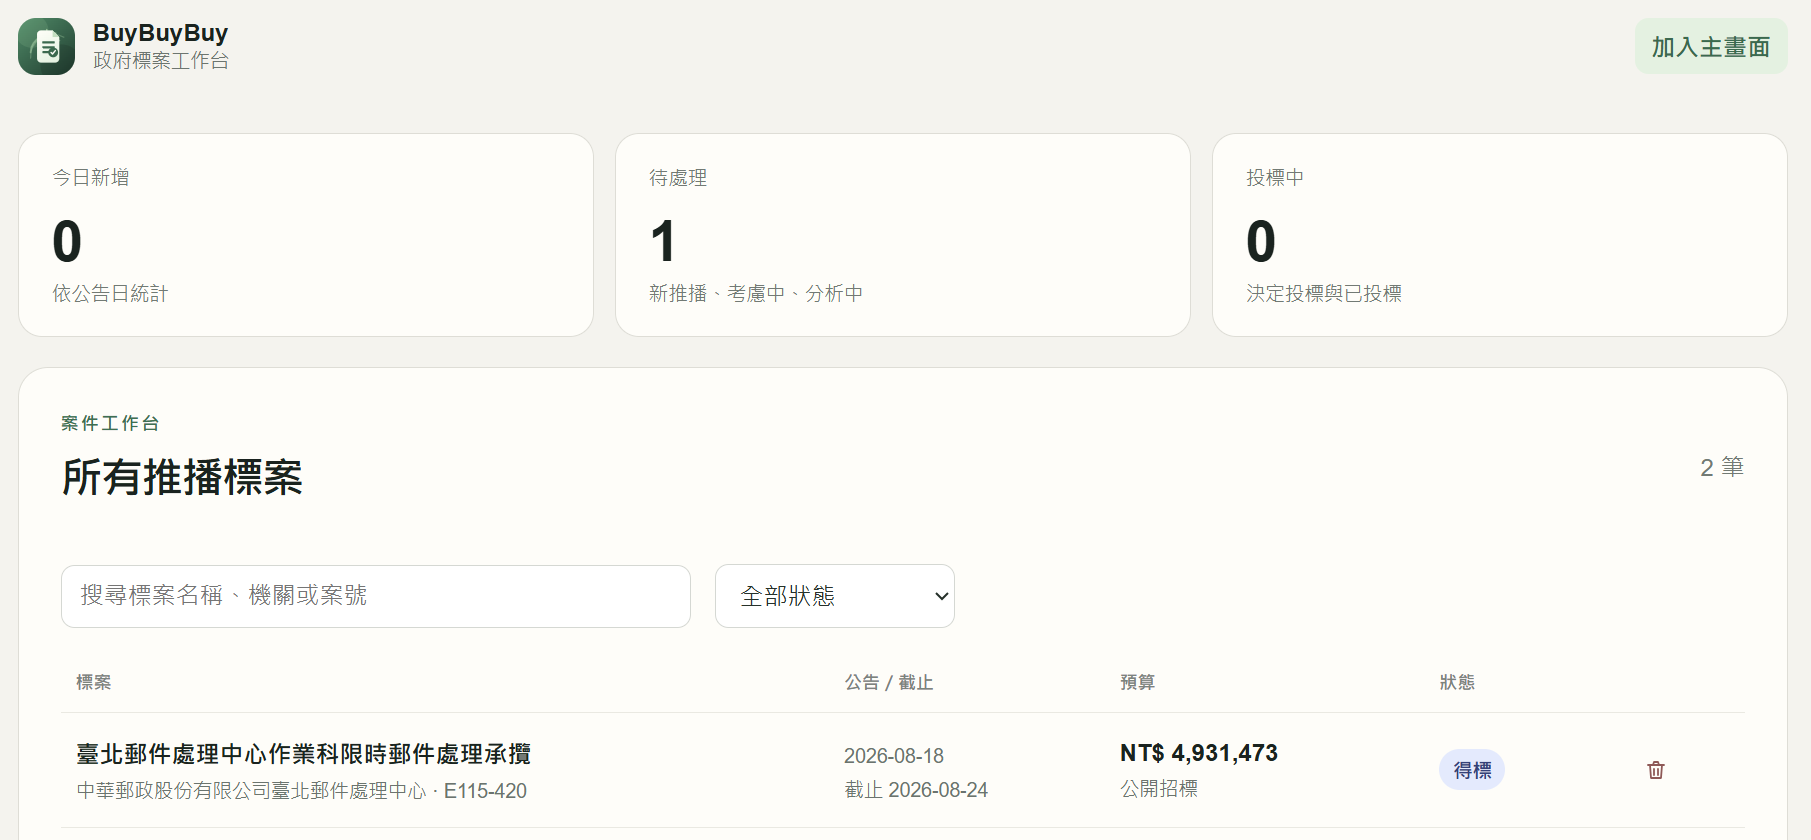
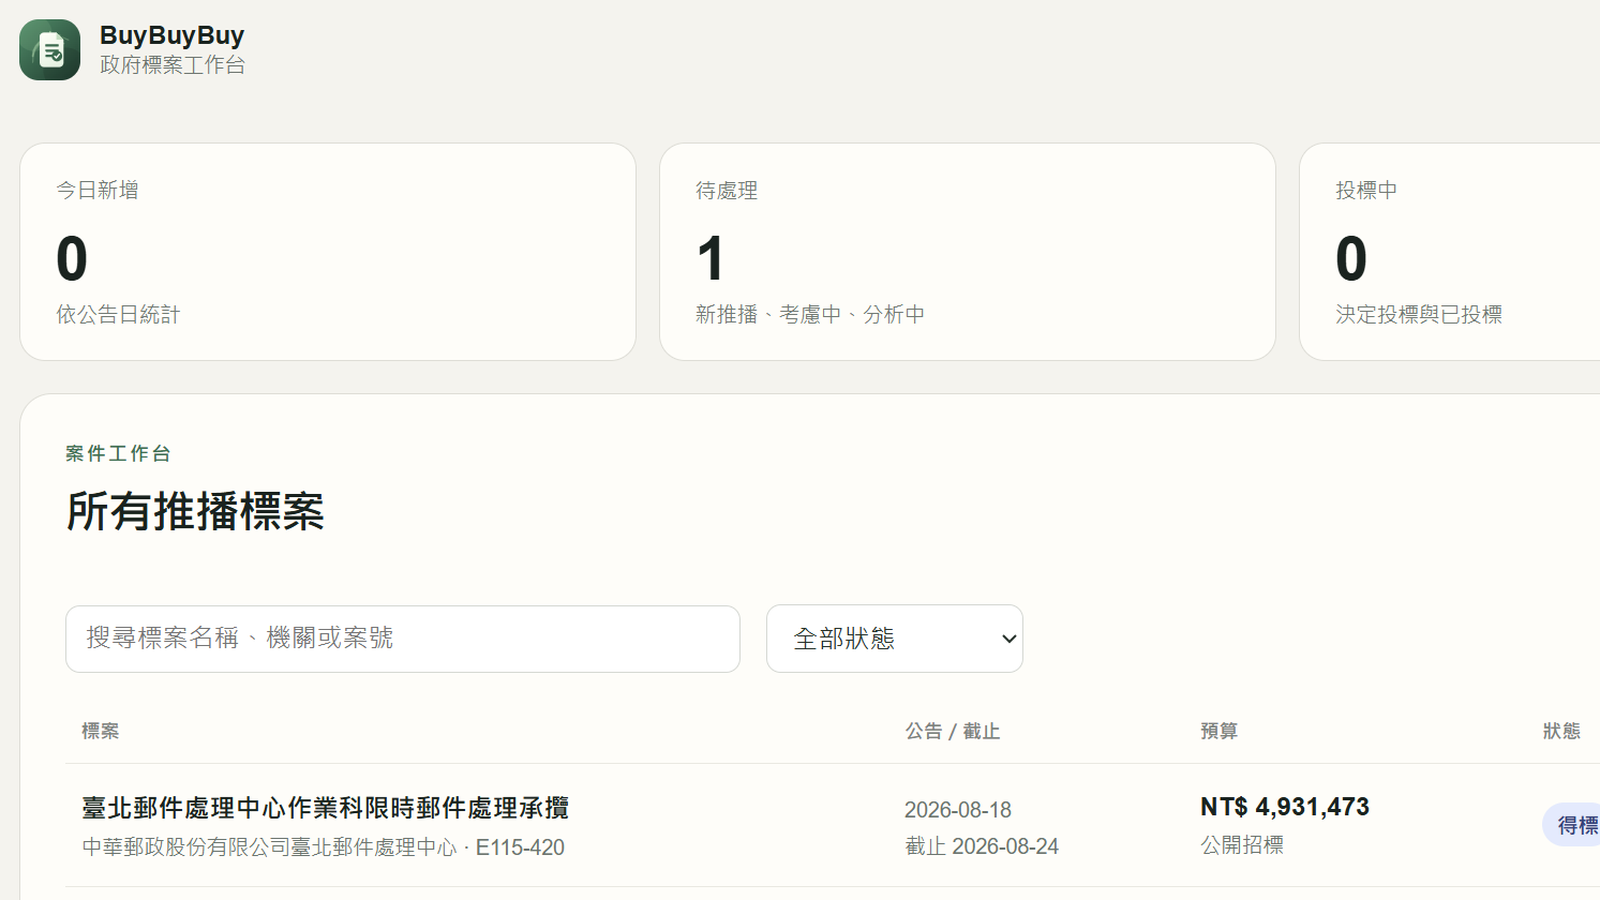
fix(portfolio): include new works in cover editor

diff --git a/local-tools/cover-editor.html b/local-tools/cover-editor.html
@@ -1,0 +1,27 @@
+<!doctype html>
+<html lang="zh-Hant"><meta charset="utf-8"><meta name="viewport" content="width=device-width,initial-scale=1"><title>Portfolio 封面裁切器</title>
+<style>
+:root{font-family:system-ui,sans-serif;color:#f8fafc;background:#111827}*{box-sizing:border-box}body{margin:0}main{width:min(1180px,calc(100% - 32px));margin:auto;padding:36px 0}.layout{display:grid;grid-template-columns:280px 1fr;gap:20px}.panel{background:#182235;border:1px solid #334155;border-radius:18px;padding:18px}h1{margin:0}.lead,.note{color:#cbd5e1;line-height:1.6}.note{font-size:13px}label{display:block;font-size:13px;font-weight:700;color:#cbd5e1;margin:0 0 8px}select,button{width:100%;border-radius:10px;font:inherit}select{padding:11px;border:1px solid #475569;background:#0f172a;color:#fff;margin-bottom:16px}button{border:0;padding:12px;font-weight:800;cursor:pointer}.mode{display:grid;grid-template-columns:1fr 1fr;gap:8px}.mode button{background:#273449;color:#cbd5e1;font-size:13px}.mode button.active{background:#f97316;color:#fff}#save{background:#22c55e;color:#06230f;margin-top:16px}#save:disabled{opacity:.5}canvas{display:block;width:100%;max-height:640px;border-radius:14px;background:#0b1120;touch-action:none;cursor:crosshair}.preview-wrap{margin-top:18px;display:flex;gap:16px;align-items:flex-start}.preview-box{width:180px}.preview{background:#0b1120;border:1px solid #475569;border-radius:10px;overflow:hidden}.preview.square{aspect-ratio:1}.preview.wide{aspect-ratio:16/9}.preview.portrait{aspect-ratio:9/16;width:110px}.preview img{width:100%;height:100%;display:block;object-fit:cover}#status{min-height:24px;margin-top:14px;color:#a7f3d0;font-size:13px}#status.error{color:#fca5a5}@media(max-width:800px){main{width:min(100% - 20px,700px);padding-top:20px}.layout{grid-template-columns:1fr}}
+</style>
+<main><h1>Portfolio 裁切器</h1><p class="lead">本機使用。封面可裁成 1:1 或 16:9；手機 App 畫面請選「操作畫面 9:16」，會自動加入作品詳情頁圖集。</p><div class="layout"><aside class="panel"><label>作品</label><select id="work"></select><label>來源圖片</label><select id="source"></select><label>新增來源圖片</label><input id="upload" type="file" accept="image/png,image/jpeg,image/webp"><p class="note">新作品即使尚未有封面也會列在這裡；先匯入 PNG、JPG 或 WebP 圖片，再進行裁切。</p><label>輸出位置</label><div class="mode"><button data-mode="card" class="active">首頁卡片<br>1:1</button><button data-mode="detail">作品詳情<br>16:9</button><button data-mode="portrait">操作畫面<br>9:16</button></div><p class="note">每次儲存會備份舊檔並重建作品集。直式操作畫面存進圖集，不影響封面。</p><button id="save">儲存裁切並重建</button><div id="status"></div></aside><section class="panel"><canvas id="canvas"></canvas><div class="preview-wrap"><div class="preview-box"><label>輸出預覽</label><div id="preview" class="preview square"><img></div></div><p class="note">拖曳裁切框移動；拖曳四角調整大小。切換比例或圖片時會重新置中。</p></div></section></div></main>
+<script>
+const $=s=>document.querySelector(s),canvas=$('#canvas'),ctx=canvas.getContext('2d'),workSelect=$('#work'),sourceSelect=$('#source'),upload=$('#upload'),preview=$('#preview'),previewImg=$('#preview img'),save=$('#save'),status=$('#status');let works=[],work,image=new Image(),mode='card',crop,display,action;
+const ratio=()=>mode==='card'?1:mode==='detail'?16/9:9/16;
+const outputSize=()=>mode==='card'?[400,400]:mode==='detail'?[640,360]:[270,480];
+function msg(text,error=false){status.textContent=text;status.className=error?'error':''}
+function fit(w,h,r){const height=Math.min(h,w/r),width=height*r;return{x:(w-width)/2,y:(h-height)/2,width,height}}
+function reset(){crop=fit(image.naturalWidth,image.naturalHeight,ratio());draw()}
+function load(){if(!sourceSelect.value){canvas.width=0;canvas.height=0;previewImg.removeAttribute('src');return}image=new Image();image.onload=reset;image.src='/'+encodeURI(sourceSelect.value)+'?t='+Date.now()}
+function draw(){if(!image.naturalWidth||!crop)return;const scale=Math.min(900/image.naturalWidth,620/image.naturalHeight,1);canvas.width=Math.round(image.naturalWidth*scale);canvas.height=Math.round(image.naturalHeight*scale);display={scale};ctx.drawImage(image,0,0,canvas.width,canvas.height);const r={x:crop.x*scale,y:crop.y*scale,width:crop.width*scale,height:crop.height*scale};ctx.fillStyle='rgba(0,0,0,.58)';ctx.beginPath();ctx.rect(0,0,canvas.width,canvas.height);ctx.rect(r.x,r.y,r.width,r.height);ctx.fill('evenodd');ctx.strokeStyle='#fff';ctx.lineWidth=2;ctx.strokeRect(r.x,r.y,r.width,r.height);ctx.fillStyle='#f97316';for(const[x,y]of[[r.x,r.y],[r.x+r.width,r.y],[r.x,r.y+r.height],[r.x+r.width,r.y+r.height]])ctx.fillRect(x-7,y-7,14,14);const out=document.createElement('canvas'),[ow,oh]=outputSize();out.width=ow;out.height=oh;out.getContext('2d').drawImage(image,crop.x,crop.y,crop.width,crop.height,0,0,ow,oh);previewImg.src=out.toDataURL();preview.className='preview '+(mode==='card'?'square':mode==='detail'?'wide':'portrait')}
+function point(e){const r=canvas.getBoundingClientRect();return{x:(e.clientX-r.left)*canvas.width/r.width,y:(e.clientY-r.top)*canvas.height/r.height}}
+function hit(p){const r={x:crop.x*display.scale,y:crop.y*display.scale,width:crop.width*display.scale,height:crop.height*display.scale},d=18;for(const[n,x,y]of[['nw',r.x,r.y],['ne',r.x+r.width,r.y],['sw',r.x,r.y+r.height],['se',r.x+r.width,r.y+r.height]])if(Math.hypot(p.x-x,p.y-y)<d)return n;return p.x>=r.x&&p.x<=r.x+r.width&&p.y>=r.y&&p.y<=r.y+r.height?'move':'new'}
+canvas.onpointerdown=e=>{const p=point(e);action={type:hit(p),start:p,original:{...crop}};canvas.setPointerCapture(e.pointerId)};
+canvas.onpointermove=e=>{if(!action)return;const p=point(e),s=display.scale,dx=(p.x-action.start.x)/s,dy=(p.y-action.start.y)/s,o=action.original,r=ratio();if(action.type==='move'){crop.x=Math.max(0,Math.min(image.naturalWidth-o.width,o.x+dx));crop.y=Math.max(0,Math.min(image.naturalHeight-o.height,o.y+dy))}else{let ax=o.x,ay=o.y,sx=1,sy=1;if(action.type==='nw'){ax=o.x+o.width;ay=o.y+o.height;sx=-1;sy=-1}if(action.type==='ne'){ay=o.y+o.height;sy=-1}if(action.type==='sw'){ax=o.x+o.width;sx=-1}let width=Math.max(80,Math.abs(p.x/s-ax)),height=width/r;width=Math.min(width,sx>0?image.naturalWidth-ax:ax);height=Math.min(height,sy>0?image.naturalHeight-ay:ay);width=Math.min(width,height*r);height=width/r;crop={x:sx>0?ax:ax-width,y:sy>0?ay:ay-height,width,height}}draw()};canvas.onpointerup=()=>action=null;
+function chooseWork(){work=works.find(w=>w.slug===workSelect.value);const hasImages=work.images.length>0;sourceSelect.innerHTML=hasImages?work.images.map(p=>`<option value="${p}">${p.split('/').pop()}</option>`).join(''):'<option value="">請先匯入來源圖片</option>';sourceSelect.disabled=!hasImages;save.disabled=!hasImages;load()}
+async function refreshWorks(selectedSlug){const r=await fetch('/api/works');if(!r.ok)throw Error('無法讀取作品清單');works=await r.json();workSelect.innerHTML=works.map(w=>`<option value="${w.slug}">${w.title}${w.images.length?'':'（尚未有圖片）'}</option>`).join('');workSelect.value=selectedSlug||works[0]?.slug||'';chooseWork()}
+workSelect.onchange=chooseWork;sourceSelect.onchange=load;
+upload.onchange=async()=>{const file=upload.files[0];if(!file)return;if(file.size>15*1024*1024){msg('圖片請小於 15 MB',true);upload.value='';return}msg('匯入圖片中…');try{const data=await file.arrayBuffer(),bytes=new Uint8Array(data);let binary='';for(let i=0;i<bytes.length;i+=0x8000)binary+=String.fromCharCode(...bytes.subarray(i,i+0x8000));const r=await fetch('/api/upload',{method:'POST',headers:{'Content-Type':'application/json'},body:JSON.stringify({slug:work.slug,name:file.name,data:btoa(binary)})}),d=await r.json();if(!r.ok)throw Error(d.error);await refreshWorks(work.slug);sourceSelect.value=d.source;load();msg(`已匯入：${d.source.split('/').pop()}`)}catch(e){msg(e.message,true)}finally{upload.value=''}};
+document.querySelectorAll('[data-mode]').forEach(b=>b.onclick=()=>{mode=b.dataset.mode;document.querySelectorAll('[data-mode]').forEach(x=>x.classList.toggle('active',x===b));reset()});
+save.onclick=async()=>{save.disabled=true;msg('儲存與重建中…');try{const r=await fetch('/api/save',{method:'POST',headers:{'Content-Type':'application/json'},body:JSON.stringify({slug:work.slug,source:sourceSelect.value,mode,crop})}),d=await r.json();if(!r.ok)throw Error(d.error);msg(`${d.message}：${d.target}`);chooseWork()}catch(e){msg(e.message,true)}finally{save.disabled=!sourceSelect.value}};
+refreshWorks().catch(e=>msg(e.message,true));
+</script>

diff --git a/index.html b/index.html
@@ -82,7 +82,7 @@
     <div class="works-grid">
       
 <a class="card-small" href="works/buybuybuy.html" data-cats="生產力工具" data-type="work">
-  <div class="card-small-img" style="background: linear-gradient(rgba(0,0,0,.2), rgba(0,0,0,.48)), url('assets/works/buybuybuy/cover.png') center/cover no-repeat;">
+  <div class="card-small-img" style="background: linear-gradient(rgba(0,0,0,.2), rgba(0,0,0,.48)), url('assets/works/buybuybuy/cover-card.png') center/cover no-repeat;">
     <div class="card-small-img-title">政府標案投標輔助系統</div>
   </div>
   <div class="card-small-num">01 — 作品 · 生產力工具</div>
@@ -100,7 +100,7 @@
 </a>
 
 <a class="card-small" href="works/academic-publication-dashboard.html" data-cats="BI儀表板|學術研究" data-type="work">
-  <div class="card-small-img" style="background: linear-gradient(rgba(0,0,0,.2), rgba(0,0,0,.48)), url('assets/works/academic-publication-dashboard/cover.png') center/cover no-repeat;">
+  <div class="card-small-img" style="background: linear-gradient(rgba(0,0,0,.2), rgba(0,0,0,.48)), url('assets/works/academic-publication-dashboard/cover-card.png') center/cover no-repeat;">
     <div class="card-small-img-title">學術發表儀表板</div>
   </div>
   <div class="card-small-num">03 — 作品 · BI儀表板</div>
@@ -118,7 +118,7 @@
 </a>
 
 <a class="card-small" href="works/2x-kick.html" data-cats="量化投資" data-type="work">
-  <div class="card-small-img" style="background: linear-gradient(rgba(0,0,0,.2), rgba(0,0,0,.48)), url('assets/works/2x-kick/screenshots/cover.png') center/cover no-repeat;">
+  <div class="card-small-img" style="background: linear-gradient(rgba(0,0,0,.2), rgba(0,0,0,.48)), url('assets/works/2x-kick/cover-card.png') center/cover no-repeat;">
     <div class="card-small-img-title">2X Kick 正二倉位策略</div>
   </div>
   <div class="card-small-num">05 — 作品 · 量化投資</div>
@@ -163,7 +163,7 @@
 </a>
 
 <a class="card-small" href="works/manuscript-revision-response.html" data-cats="學術工具|學術研究" data-type="skill">
-  <div class="card-small-img" style="background: linear-gradient(rgba(0,0,0,.2), rgba(0,0,0,.48)), url('assets/works/manuscript-revision-response/screenshots/cover.png') center/cover no-repeat;">
+  <div class="card-small-img" style="background: linear-gradient(rgba(0,0,0,.2), rgba(0,0,0,.48)), url('assets/works/manuscript-revision-response/cover-card.png') center/cover no-repeat;">
     <div class="card-small-img-title">學術修稿與審稿回應系統</div>
   </div>
   <div class="card-small-num">10 — 技能包 · 學術工具</div>
@@ -371,7 +371,7 @@
 
 <a class="card-small" href="works/second-brain-system.html" data-cats="學習工具" data-type="work">
   <div class="card-small-img" style="background: linear-gradient(rgba(0,0,0,.2), rgba(0,0,0,.48)), url('assets/works/second-brain-system/cover.svg') center/cover no-repeat;">
-    <div class="card-small-img-title">四層第二大腦知識系統</div>
+    <div class="card-small-img-title">第二大腦知識系統</div>
   </div>
   <div class="card-small-num">33 — 作品 · 學習工具</div>
   <div class="card-small-summary">把素材、理解、探索與成果分層，讓知識能被保留、驗證與重新使用。</div>
@@ -478,7 +478,7 @@
 </a>
 
 <a class="card-small" href="works/ntuh-appointment-bot.html" data-cats="生活工具" data-type="work">
-  <div class="card-small-img" style="background: linear-gradient(rgba(0,0,0,.2), rgba(0,0,0,.48)), url('assets/works/ntuh-appointment-bot/screenshots/cover.png') center/cover no-repeat;">
+  <div class="card-small-img" style="background: linear-gradient(rgba(0,0,0,.2), rgba(0,0,0,.48)), url('assets/works/ntuh-appointment-bot/cover-card.png') center/cover no-repeat;">
     <div class="card-small-img-title">NTUH 快速掛號工具</div>
   </div>
   <div class="card-small-num">45 — 作品 · 生活工具</div>
@@ -514,7 +514,7 @@
 </a>
 
 <a class="card-small" href="works/wowcow-decision-matrix.html" data-cats="教學遊戲" data-type="work">
-  <div class="card-small-img" style="background: linear-gradient(rgba(0,0,0,.2), rgba(0,0,0,.48)), url('assets/works/wowcow-decision-matrix/screenshots/cover.png') center/cover no-repeat;">
+  <div class="card-small-img" style="background: linear-gradient(rgba(0,0,0,.2), rgba(0,0,0,.48)), url('assets/works/wowcow-decision-matrix/cover.png') center/cover no-repeat;">
     <div class="card-small-img-title">WOWCOW 決策矩陣</div>
   </div>
   <div class="card-small-num">49 — 作品 · 教學遊戲</div>

diff --git a/works/second-brain-system.html b/works/second-brain-system.html
@@ -3,10 +3,10 @@
 <head>
 <meta charset="utf-8">
 <meta name="viewport" content="width=device-width, initial-scale=1, viewport-fit=cover">
-<title>四層第二大腦知識系統｜Allen</title>
+<title>第二大腦知識系統｜Allen</title>
 <meta name="description" content="把素材、理解、探索與成果分層，讓知識能被保留、驗證與重新使用。">
 <link rel="canonical" href="https://mouslun-cpu.github.io/Portfolio/works/second-brain-system.html">
-<meta property="og:title" content="四層第二大腦知識系統｜Allen">
+<meta property="og:title" content="第二大腦知識系統｜Allen">
 <meta property="og:description" content="把素材、理解、探索與成果分層，讓知識能被保留、驗證與重新使用。">
 <meta property="og:type" content="website">
 <meta property="og:url" content="https://mouslun-cpu.github.io/Portfolio/works/second-brain-system.html">
@@ -41,22 +41,22 @@
 
   <div class="work-header">
     <div class="work-breadcrumb">
-      <a href="../index.html">← WORK</a>&nbsp;&nbsp;/&nbsp;&nbsp;33 四層第二大腦知識系統
+      <a href="../index.html">← WORK</a>&nbsp;&nbsp;/&nbsp;&nbsp;33 第二大腦知識系統
     </div>
     <div class="work-cat">作品 · 學習工具</div>
-    <h1 class="work-title">四層第二大腦知識系統</h1>
+    <h1 class="work-title">第二大腦知識系統</h1>
     <div class="work-date">2026.08 · 個人專案</div>
   </div>
 
   <div class="work-cover-wrap" style="">
-    <img src="../assets/works/second-brain-system/cover.svg" alt="四層第二大腦知識系統 封面">
+    <img src="../assets/works/second-brain-system/cover.svg" alt="第二大腦知識系統 封面">
   </div>
   <div class="work-cover-caption">FIG. 33 — 產品主畫面</div>
 
   <div class="work-body-grid">
     <div class="work-body-main">
       <div class="work-section-label">關於這個作品</div>
-      <p>這套第二大腦不是把所有筆記塞進同一個資料夾，而是把知識工作拆成四種狀態：原始素材、編譯後的理解、仍在探索的推理，以及已完成的作品。每一層有自己的責任，讓收集、思考與產出不再互相覆蓋。</p>
+      <p>這套第二大腦不是把所有筆記塞進同一個資料夾，而是依照知識工作的角色，分開保存原始素材、編譯後的理解、仍在探索的推理，以及已完成的作品。每個區域各司其職，讓收集、思考與產出不再互相覆蓋。</p>
 <p>系統以 Markdown 與 Obsidian 作為可長期保存的基底，再由 LLM 協助進行編譯、概念萃取、索引與健康檢查。它保留來源、區分自身實踐與外部觀點，並把矛盾與未解問題視為下一輪思考的入口。</p>
     </div>
     
@@ -64,7 +64,7 @@
       <div class="work-section-label-muted">作品亮點</div>
       <div class="work-highlights"><div class="work-highlight-item">
           <span class="work-highlight-dot"></span>
-          <span class="work-highlight-text">以 raw、wiki、brainstorming、artifacts 四層分開證據、理解、探索與成果</span>
+          <span class="work-highlight-text">以 raw、wiki、brainstorming、artifacts 分開證據、理解、探索與成果</span>
         </div><div class="work-highlight-item">
           <span class="work-highlight-dot"></span>
           <span class="work-highlight-text">原始素材進入 raw 後維持唯讀，避免後來的觀點改寫原始證據</span>

diff --git a/works/ntuh-appointment-bot.html b/works/ntuh-appointment-bot.html
@@ -49,7 +49,7 @@
   </div>
 
   <div class="work-cover-wrap" style="">
-    <img src="../assets/works/ntuh-appointment-bot/screenshots/cover.png" alt="NTUH 快速掛號工具 封面">
+    <img src="../assets/works/ntuh-appointment-bot/cover.png" alt="NTUH 快速掛號工具 封面">
   </div>
   <div class="work-cover-caption">FIG. 45 — 產品主畫面</div>
 

diff --git a/works/wowcow-decision-matrix.html b/works/wowcow-decision-matrix.html
@@ -49,7 +49,7 @@
   </div>
 
   <div class="work-cover-wrap" style="">
-    <img src="../assets/works/wowcow-decision-matrix/screenshots/cover.png" alt="WOWCOW 決策矩陣 封面">
+    <img src="../assets/works/wowcow-decision-matrix/cover.png" alt="WOWCOW 決策矩陣 封面">
   </div>
   <div class="work-cover-caption">FIG. 49 — 產品主畫面</div>
 

diff --git a/works/2x-kick.html b/works/2x-kick.html
@@ -49,7 +49,7 @@
   </div>
 
   <div class="work-cover-wrap" style="">
-    <img src="../assets/works/2x-kick/screenshots/cover.png" alt="2X Kick 正二倉位策略 封面">
+    <img src="../assets/works/2x-kick/cover.png" alt="2X Kick 正二倉位策略 封面">
   </div>
   <div class="work-cover-caption">FIG. 05 — 產品主畫面</div>
 

diff --git a/local-tools/cover-editor.py b/local-tools/cover-editor.py
@@ -1,0 +1,83 @@
+from __future__ import annotations
+
+import base64, json, mimetypes, re, shutil, subprocess, tempfile
+from datetime import datetime
+from http.server import BaseHTTPRequestHandler, ThreadingHTTPServer
+from pathlib import Path
+from urllib.parse import unquote, urlparse
+from PIL import Image, ImageOps
+
+ROOT = Path(__file__).resolve().parent.parent
+EXTENSIONS = {".png", ".jpg", ".jpeg", ".webp"}
+OUTPUTS = {"card": ("cover-card.png", (1600, 1600)), "detail": ("cover.png", (1600, 900)), "portrait": (None, (900, 1600))}
+
+def works():
+    data = json.loads((ROOT / "works.json").read_text(encoding="utf-8"))
+    result = []
+    for work in data["works"]:
+        folder = ROOT / "assets" / "works" / work["slug"]
+        images = [p.relative_to(ROOT).as_posix() for p in sorted(folder.rglob("*")) if p.is_file() and p.suffix.lower() in EXTENSIONS] if folder.exists() else []
+        result.append({"slug": work["slug"], "title": work["title"], "images": images})
+    return result
+
+class Handler(BaseHTTPRequestHandler):
+    def log_message(self, fmt, *args): print(fmt % args)
+    def send_json(self, status, data):
+        body = json.dumps(data, ensure_ascii=False).encode()
+        self.send_response(status); self.send_header("Content-Type", "application/json; charset=utf-8"); self.send_header("Content-Length", str(len(body))); self.end_headers(); self.wfile.write(body)
+    def do_GET(self):
+        path = unquote(urlparse(self.path).path)
+        if path == "/":
+            body = (ROOT / "local-tools" / "cover-editor.html").read_bytes()
+            self.send_response(200); self.send_header("Content-Type", "text/html; charset=utf-8"); self.send_header("Content-Length", str(len(body))); self.end_headers(); self.wfile.write(body); return
+        if path == "/api/works": self.send_json(200, works()); return
+        if path.startswith("/assets/"):
+            target, assets = (ROOT / path.lstrip("/")).resolve(), (ROOT / "assets").resolve()
+            if assets not in target.parents or not target.is_file(): self.send_error(404); return
+            self.send_response(200); self.send_header("Content-Type", mimetypes.guess_type(target.name)[0] or "application/octet-stream"); self.send_header("Content-Length", str(target.stat().st_size)); self.end_headers()
+            with target.open("rb") as file: shutil.copyfileobj(file, self.wfile)
+            return
+        self.send_error(404)
+    def do_POST(self):
+        endpoint = urlparse(self.path).path
+        if endpoint not in {"/api/save", "/api/upload"}: self.send_error(404); return
+        try:
+            request = json.loads(self.rfile.read(int(self.headers.get("Content-Length", "0"))).decode())
+            slug = request["slug"]
+            if slug not in {work["slug"] for work in works()}: raise ValueError("找不到作品")
+            folder = (ROOT / "assets" / "works" / slug).resolve()
+            if endpoint == "/api/upload":
+                suffix = Path(request["name"]).suffix.lower()
+                if suffix not in EXTENSIONS: raise ValueError("僅支援 PNG、JPG、JPEG 或 WebP 圖片")
+                raw = base64.b64decode(request["data"], validate=True)
+                if len(raw) > 15 * 1024 * 1024: raise ValueError("圖片請小於 15 MB")
+                stem = re.sub(r"[^A-Za-z0-9_-]+", "-", Path(request["name"]).stem).strip("-") or "image"
+                target = folder / "sources" / f"{datetime.now():%Y%m%d-%H%M%S}-{stem}{suffix}"
+                target.parent.mkdir(parents=True, exist_ok=True)
+                target.write_bytes(raw)
+                with Image.open(target) as image: image.verify()
+                self.send_json(200, {"message": "已匯入來源圖片", "source": target.relative_to(ROOT).as_posix()}); return
+            source, mode, crop = request["source"], request["mode"], request["crop"]
+            image_path = (ROOT / source).resolve()
+            if folder not in image_path.parents or image_path.suffix.lower() not in EXTENSIONS: raise ValueError("無效的圖片路徑")
+            name, size = OUTPUTS[mode]
+            with Image.open(image_path) as image:
+                image = ImageOps.exif_transpose(image).convert("RGB")
+                x, y = max(0, min(int(crop["x"]), image.width - 1)), max(0, min(int(crop["y"]), image.height - 1))
+                w, h = max(1, min(int(crop["width"]), image.width - x)), max(1, min(int(crop["height"]), image.height - y))
+                edited = image.crop((x, y, x + w, y + h)).resize(size, Image.Resampling.LANCZOS)
+            if mode == "portrait":
+                target = folder / "gallery" / f"{image_path.stem}-portrait.png"
+                target.parent.mkdir(parents=True, exist_ok=True)
+            else:
+                target = folder / name
+            if target.exists(): shutil.copy2(target, target.with_name(f"{target.stem}.bak.{datetime.now():%Y%m%d-%H%M%S}{target.suffix}"))
+            with tempfile.NamedTemporaryFile(suffix=".png", dir=folder, delete=False) as file: edited.save(file.name, "PNG", optimize=True); temporary = Path(file.name)
+            temporary.replace(target)
+            build = subprocess.run(["node", "build.mjs"], cwd=ROOT, capture_output=True, text=True, check=True)
+            self.send_json(200, {"message": "已儲存並重建作品集", "target": target.relative_to(ROOT).as_posix(), "build": (build.stdout or "").strip()})
+        except Exception as error: self.send_json(400, {"error": str(error)})
+
+if __name__ == "__main__":
+    print("封面裁切器：http://127.0.0.1:8010")
+    ThreadingHTTPServer(("127.0.0.1", 8010), Handler).serve_forever()
